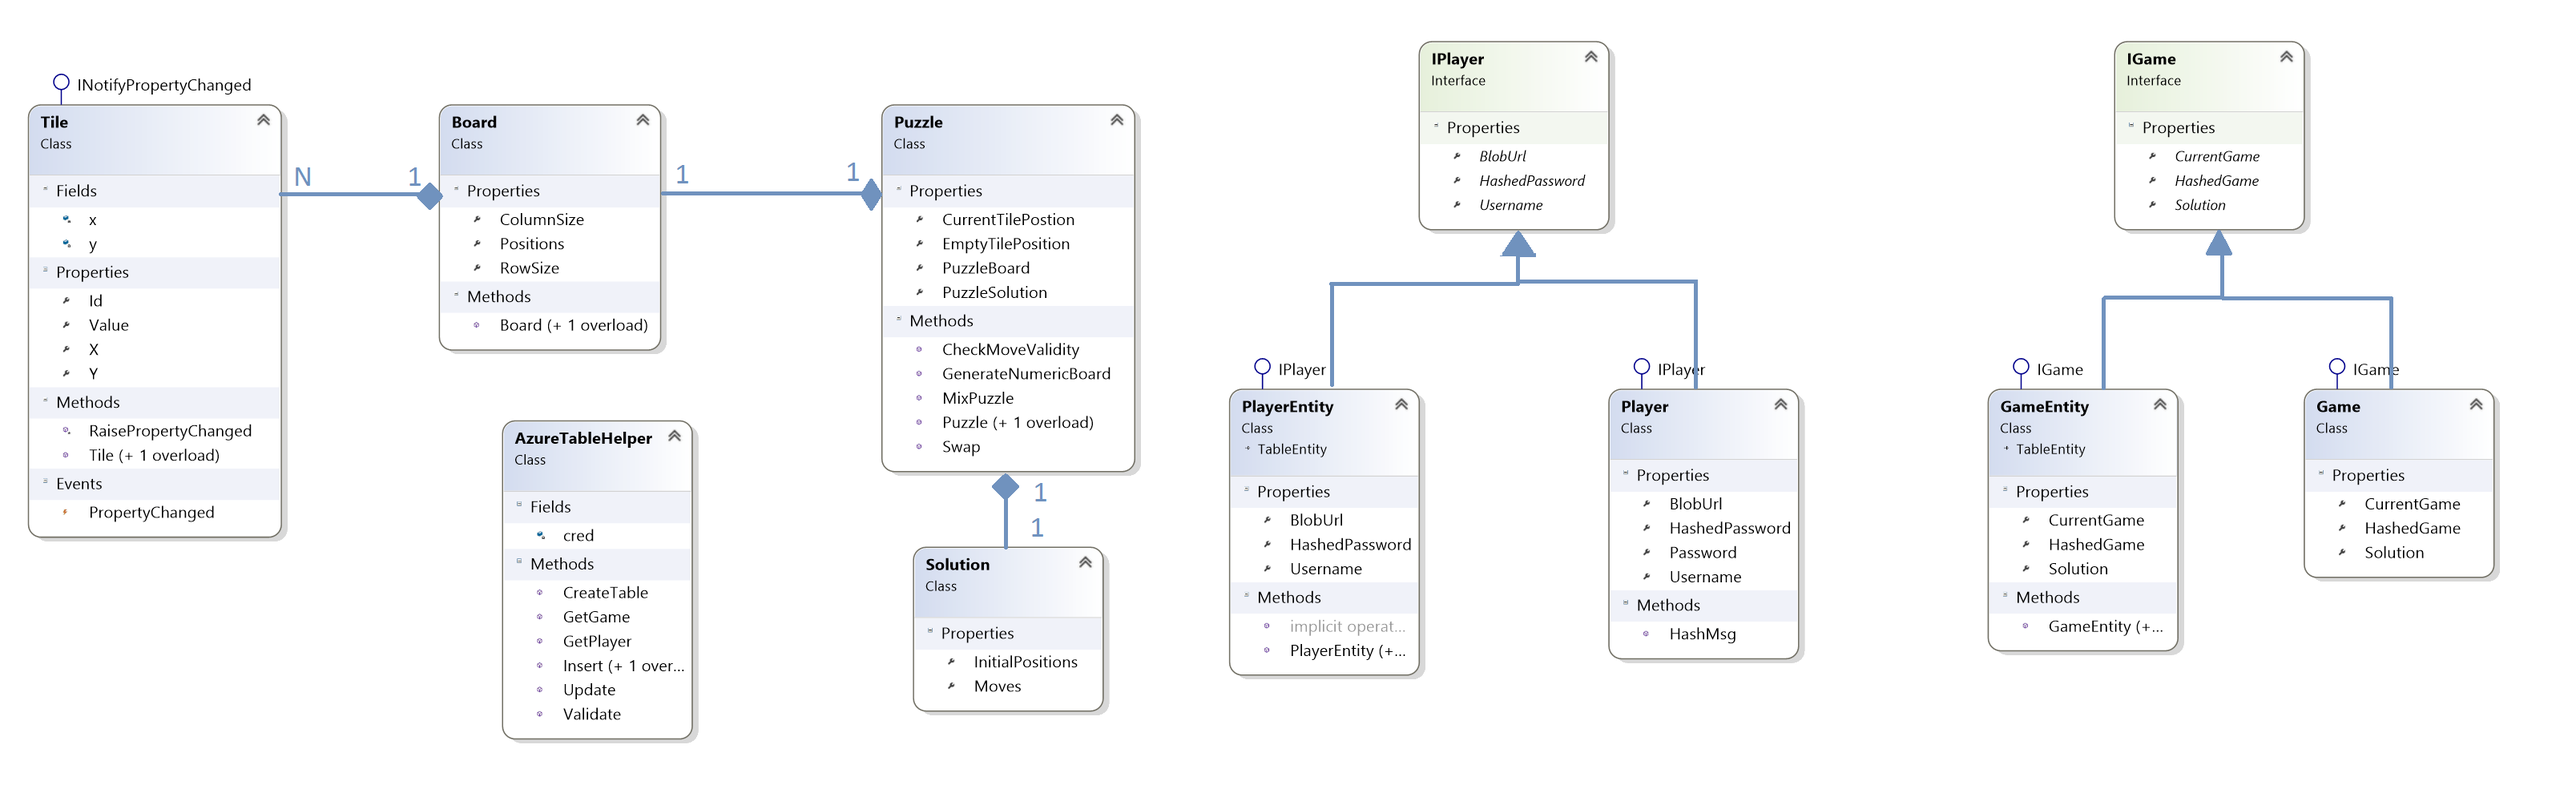
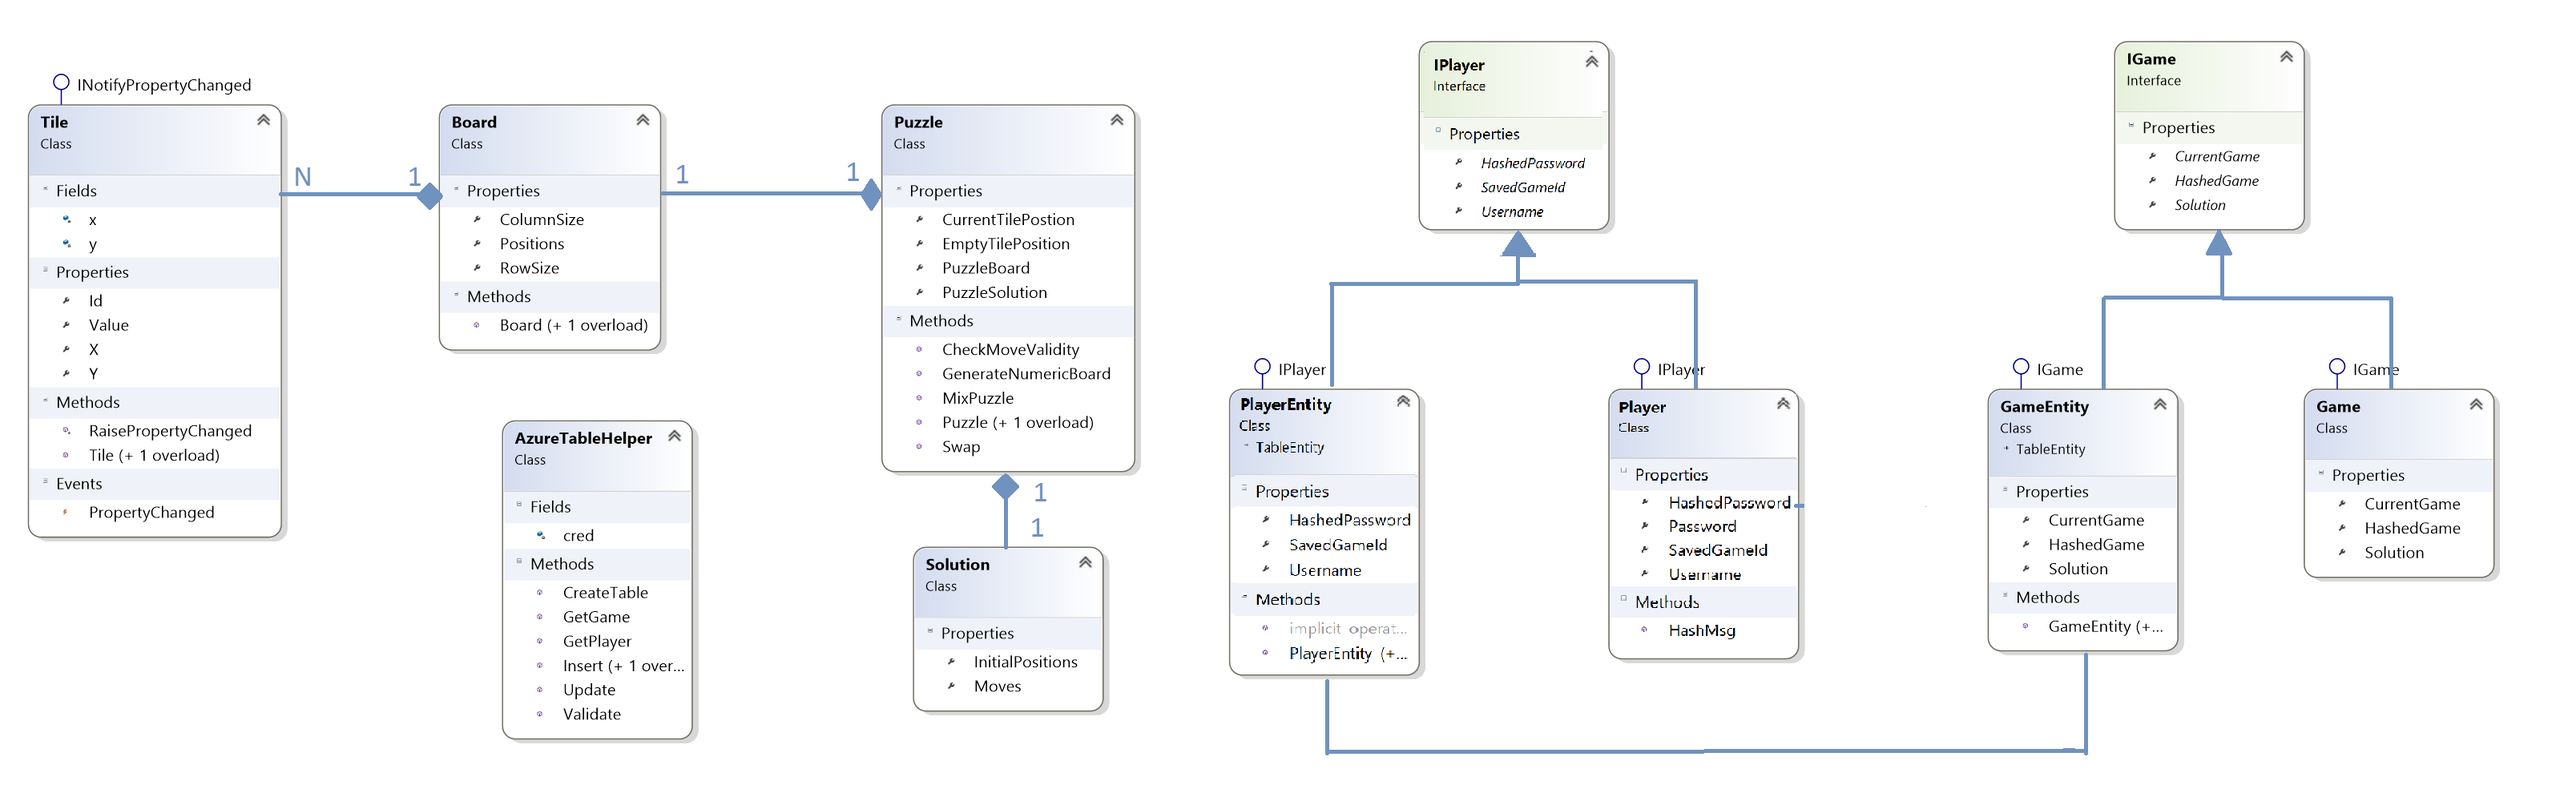
as / Refactoring

diff --git a/SliddingPuzzle/SliddingPuzzle/MainPage.xaml.cs b/SliddingPuzzle/SliddingPuzzle/MainPage.xaml.cs
@@ -148,7 +148,7 @@ namespace SliddingPuzzle
             Player player = new Player();
             player.Username = App.CurrentUser.Username;
             player.Password = App.CurrentUser.Password;
-            game.HashedGame = AzureTableHelper.GetPlayer(player).Result.BlobUrl;
+            game.HashedGame = AzureTableHelper.GetPlayer(player).Result.SavedGameId;
             if (!string.IsNullOrEmpty(game.HashedGame))
             {
                 Game resGame = AzureTableHelper.GetGame(game).Result;
@@ -174,11 +174,11 @@ namespace SliddingPuzzle
             Player player = new Player();
             player.Password = App.CurrentUser.Password;
             player.Username = App.CurrentUser.Username;
-            player.BlobUrl = currentGame.HashedGame;
+            player.SavedGameId = currentGame.HashedGame;
 
             await AzureTableHelper.Update(player);
 
-            App.CurrentUser.BlobUrl = currentGame.HashedGame;
+            App.CurrentUser.SavedGameId = currentGame.HashedGame;
         }
 
         private void BtnSolve_OnClick(object sender, RoutedEventArgs e)

diff --git a/SliddingPuzzle/SliddingPuzzle/ADO/AzureTableHelper.cs b/SliddingPuzzle/SliddingPuzzle/ADO/AzureTableHelper.cs
@@ -166,7 +166,7 @@ namespace SliddingPuzzle.ADO
 
             if (res.Result != null)
             {
-                player.BlobUrl = ((DynamicTableEntity) res.Result).Properties["BlobUrl"].StringValue;
+                player.SavedGameId = ((DynamicTableEntity) res.Result).Properties["SavedGameId"].StringValue;
                 return player;
             }
             return null;
@@ -186,7 +186,7 @@ namespace SliddingPuzzle.ADO
             CloudTable table = tableClient.GetTableReference("player");
 
             PlayerEntity player1 = new PlayerEntity(player.Username, player.HashedPassword);
-            player1.BlobUrl = player.BlobUrl;
+            player1.SavedGameId = player.SavedGameId;
 
             TableOperation operation = TableOperation.InsertOrMerge(player1);
 

diff --git a/SliddingPuzzle/SlidingPuzzle_Tests/Test_Player.cs b/SliddingPuzzle/SlidingPuzzle_Tests/Test_Player.cs
@@ -14,7 +14,7 @@ namespace SlidingPuzzle_Tests
             {
                 Username = "Test",
                 Password = "Test",
-                BlobUrl = "https://test.com"
+                SavedGameId = "https://test.com"
             };
             Assert.IsTrue(!String.IsNullOrEmpty(player.HashedPassword));
         }
@@ -26,7 +26,7 @@ namespace SlidingPuzzle_Tests
             {
                 Username = "Test",
                 Password = "Test",
-                BlobUrl = "https://test.com"
+                SavedGameId = "https://test.com"
             };
             string hash = Player.HashMsg("Test");
             Assert.AreEqual(hash,player.HashedPassword);

diff --git a/SliddingPuzzle/SliddingPuzzle/ADO/PlayerEntity.cs b/SliddingPuzzle/SliddingPuzzle/ADO/PlayerEntity.cs
@@ -15,7 +15,7 @@ namespace SliddingPuzzle.ADO
             this.RowKey = pwd;
             Username = username;
             HashedPassword = pwd;
-            BlobUrl = String.Empty;
+            SavedGameId = String.Empty;
         }
 
         public PlayerEntity() { }
@@ -24,7 +24,7 @@ namespace SliddingPuzzle.ADO
 
         public string HashedPassword { get; set; }
 
-        public string BlobUrl { get; set; }
+        public string SavedGameId { get; set; }
 
         public static implicit operator Task<object>(PlayerEntity v)
         {

diff --git a/SliddingPuzzle/SlidingPuzzle_Tests/Test_PlayerEntity.cs b/SliddingPuzzle/SlidingPuzzle_Tests/Test_PlayerEntity.cs
@@ -14,7 +14,7 @@ namespace SlidingPuzzle_Tests
             PlayerEntity player = new PlayerEntity();
             Assert.AreEqual(null,player.Username);
             Assert.AreEqual(null, player.HashedPassword);
-            Assert.AreEqual(null, player.BlobUrl);
+            Assert.AreEqual(null, player.SavedGameId);
         }
 
         [TestMethod]

diff --git a/SliddingPuzzle/SliddingPuzzle/Model/Player.cs b/SliddingPuzzle/SliddingPuzzle/Model/Player.cs
@@ -20,7 +20,7 @@ namespace SliddingPuzzle.Model
             get { return HashMsg(Password); }
         }
         
-        public string BlobUrl { get; set; }
+        public string SavedGameId { get; set; }
 
         public static String HashMsg(String strMsg,String strAlgName ="SHA256")
         {

diff --git a/SliddingPuzzle/SliddingPuzzle/Interface/IPlayer.cs b/SliddingPuzzle/SliddingPuzzle/Interface/IPlayer.cs
@@ -12,6 +12,6 @@ namespace SliddingPuzzle
 
         string HashedPassword { get; }
 
-       string BlobUrl { get; set; }
+       string SavedGameId { get; set; }
     }
 }
